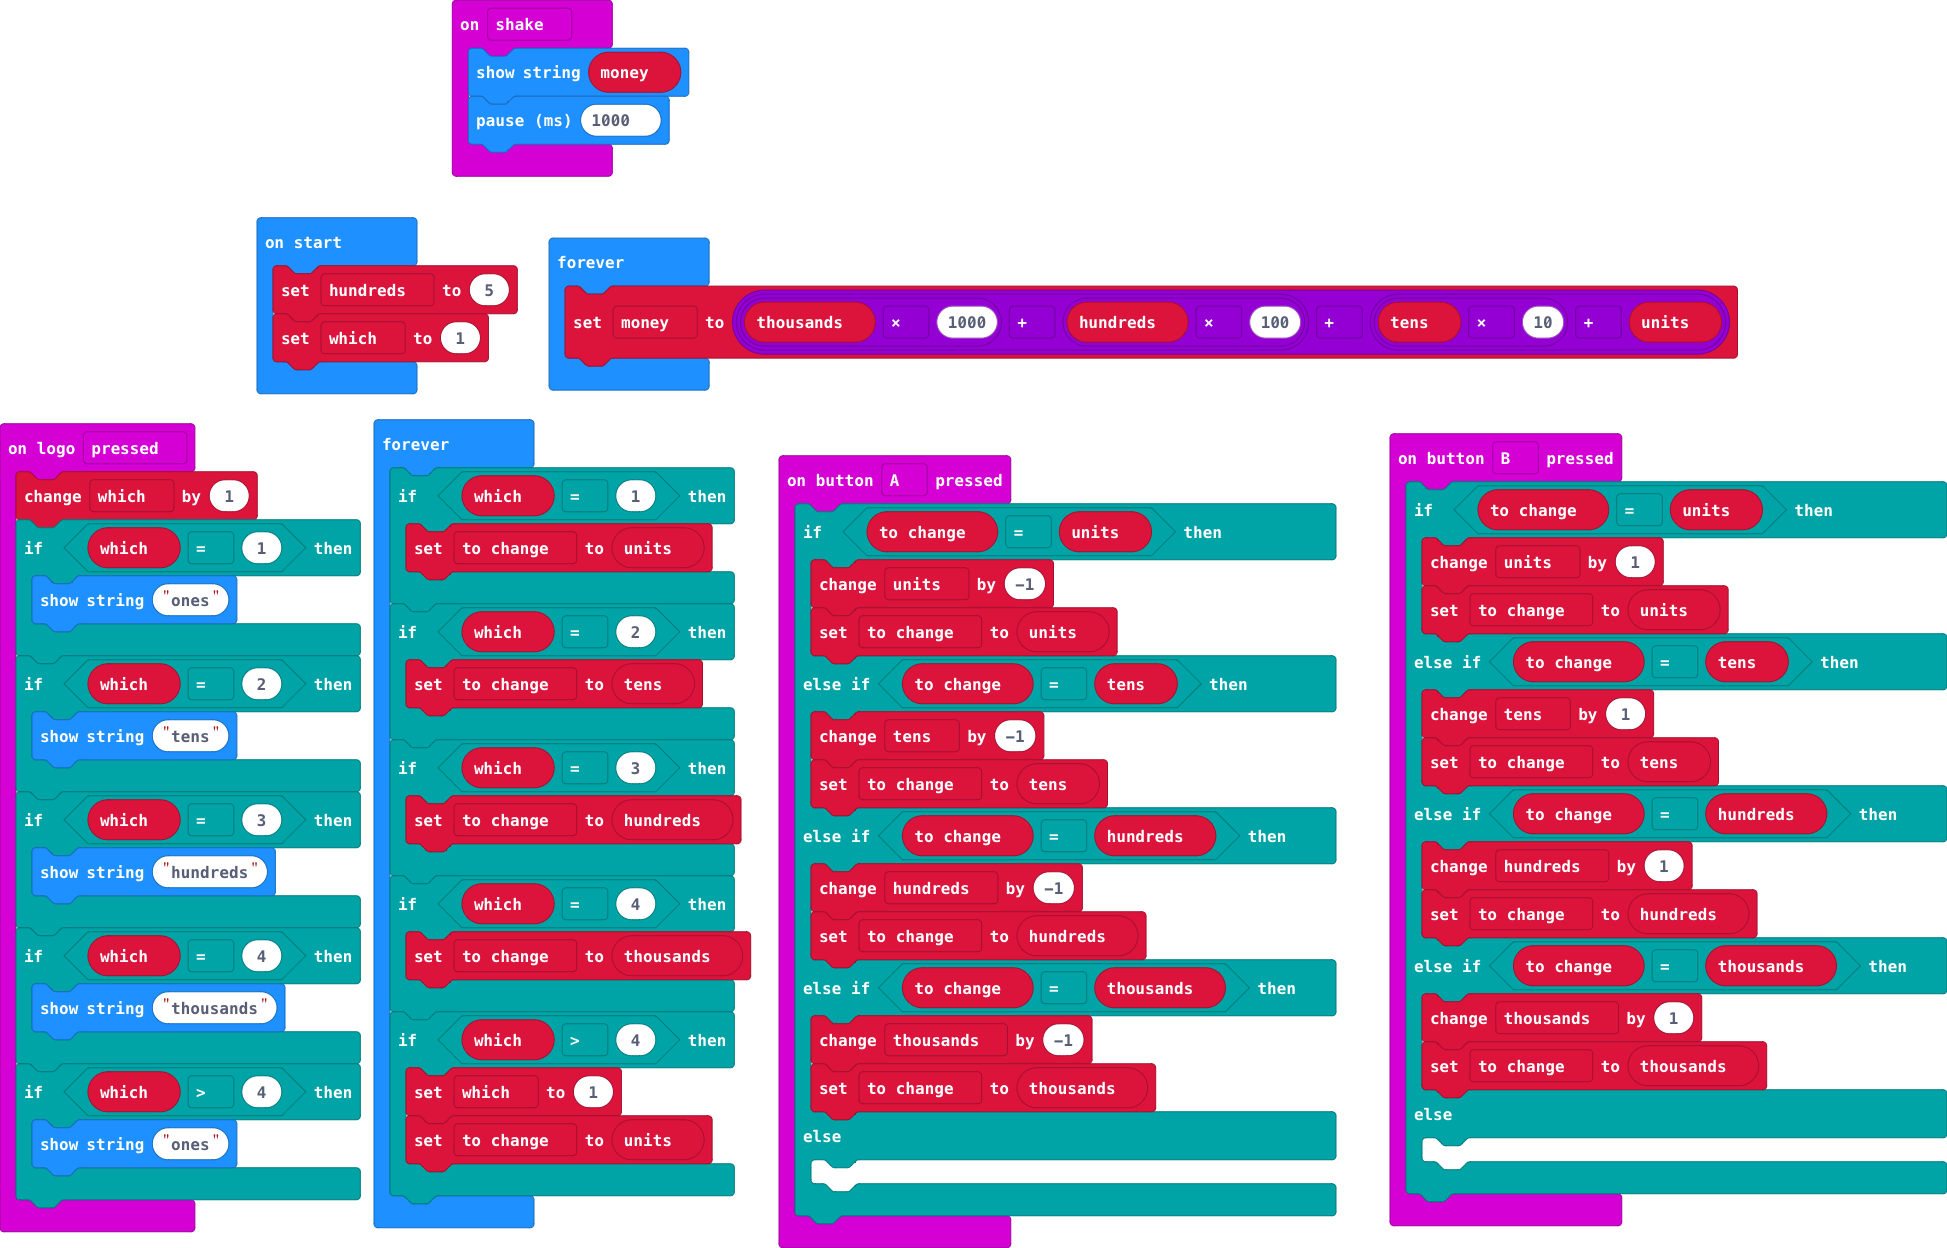
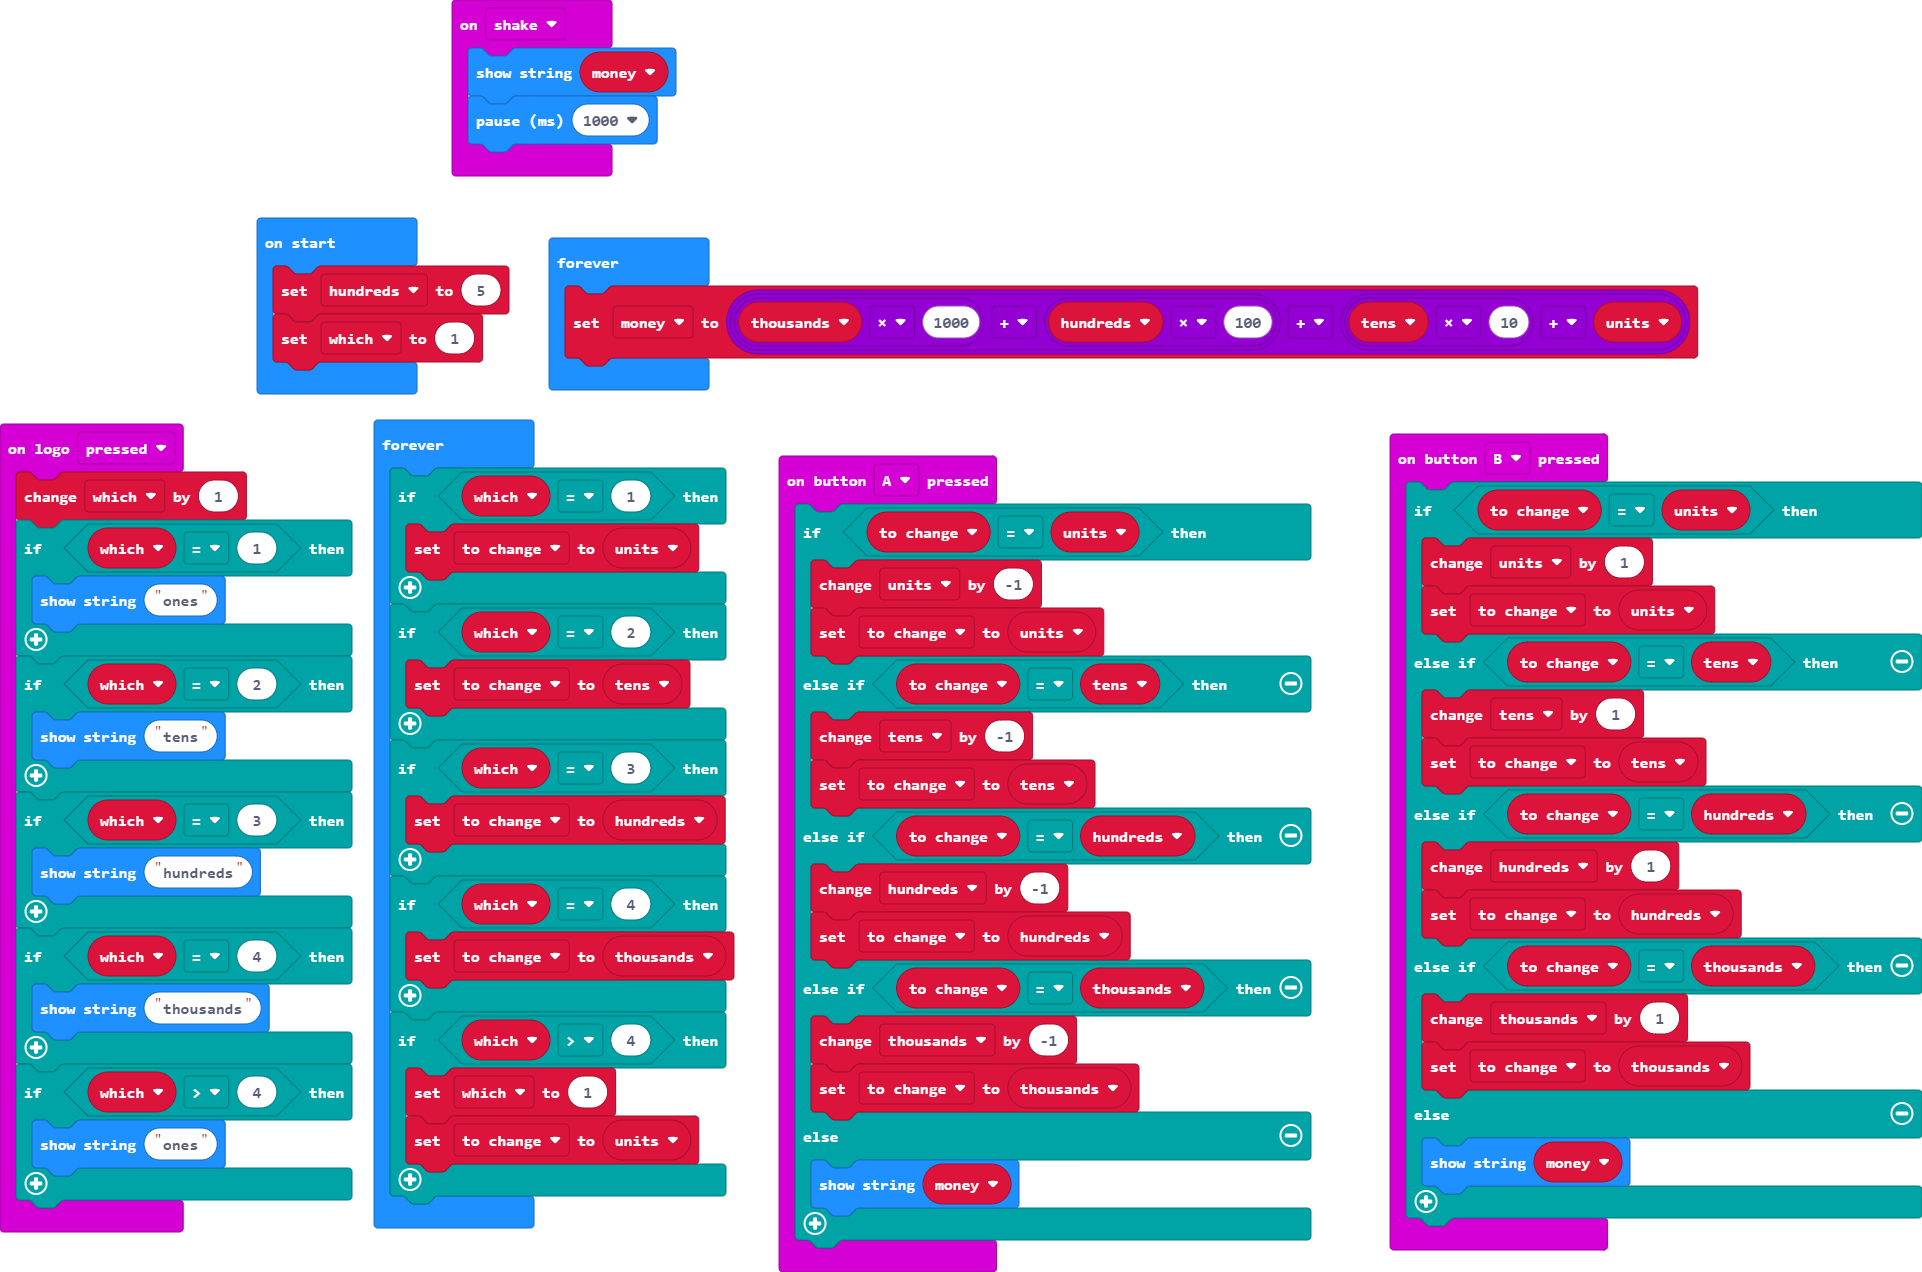
Update main.blocks, main.ts

diff --git a/main.ts b/main.ts
@@ -12,7 +12,7 @@ input.onButtonPressed(Button.A, function () {
         thousands += -1
         to_change = thousands
     } else {
-    	
+        basic.showString("" + (money))
     }
 })
 input.onButtonPressed(Button.B, function () {
@@ -29,7 +29,7 @@ input.onButtonPressed(Button.B, function () {
         thousands += 1
         to_change = thousands
     } else {
-    	
+        basic.showString("" + (money))
     }
 })
 input.onGesture(Gesture.Shake, function () {
